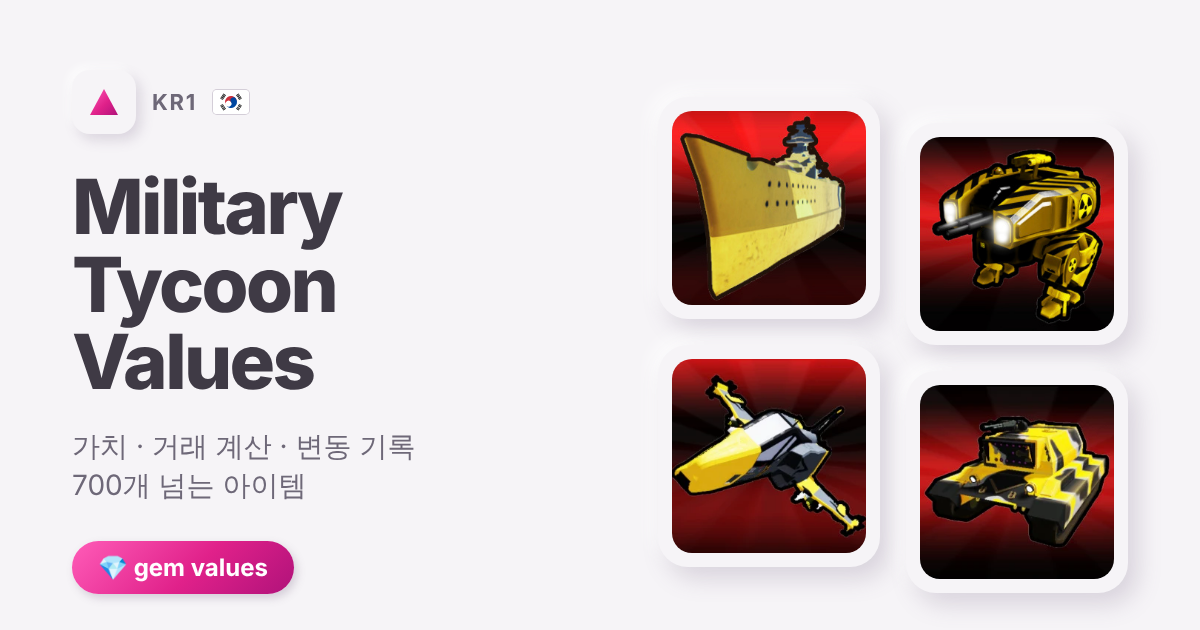
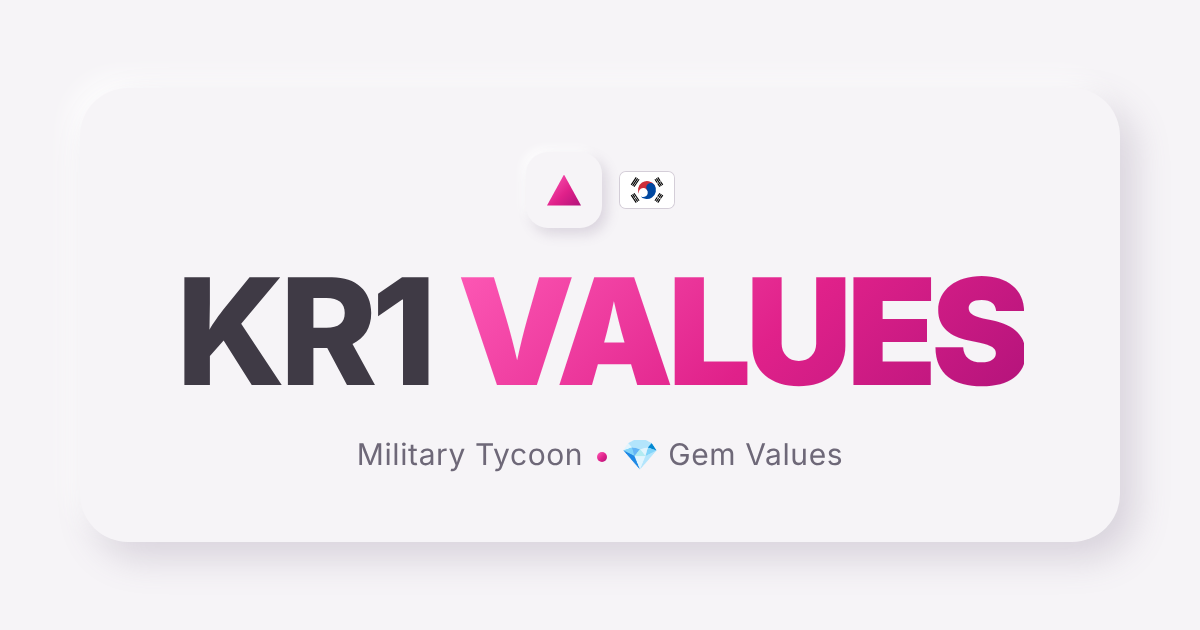
공유 썸네일을 KR1 VALUES 글자만으로 변경
Claude-Session: https://claude.ai/code/session_0157UWBoYPKymih2wT4wamNS

diff --git a/index.html b/index.html
@@ -7,7 +7,7 @@
   <meta name="description" content="Military Tycoon item values, trade calculator and value history.">
   <!-- 링크 공유 미리보기 -->
   <meta property="og:type" content="website">
-  <meta property="og:title" content="KR1 Military Tycoon Values">
+  <meta property="og:title" content="KR1 VALUES">
   <meta property="og:description" content="가치 · 거래 계산 · 변동 기록 — 700개 넘는 아이템">
   <meta property="og:url" content="https://alterspace-studio.github.io/kr1mtvalues/">
   <meta property="og:image" content="https://alterspace-studio.github.io/kr1mtvalues/images/og.png">
